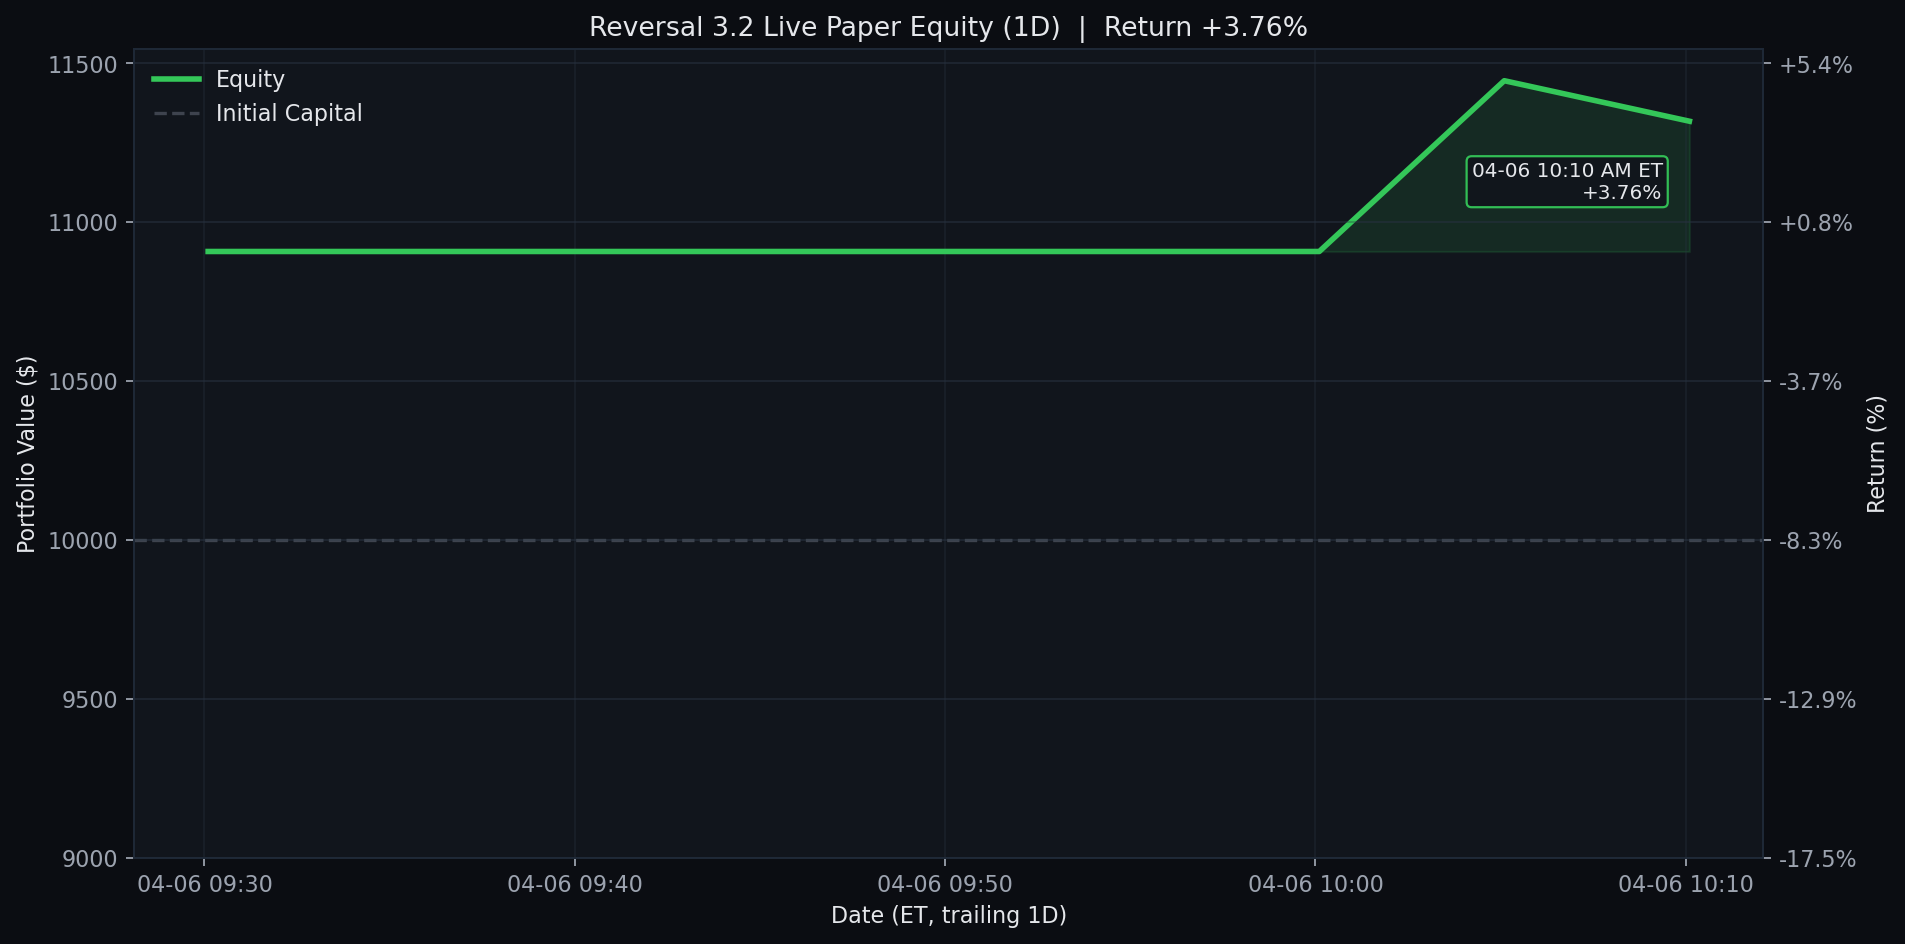
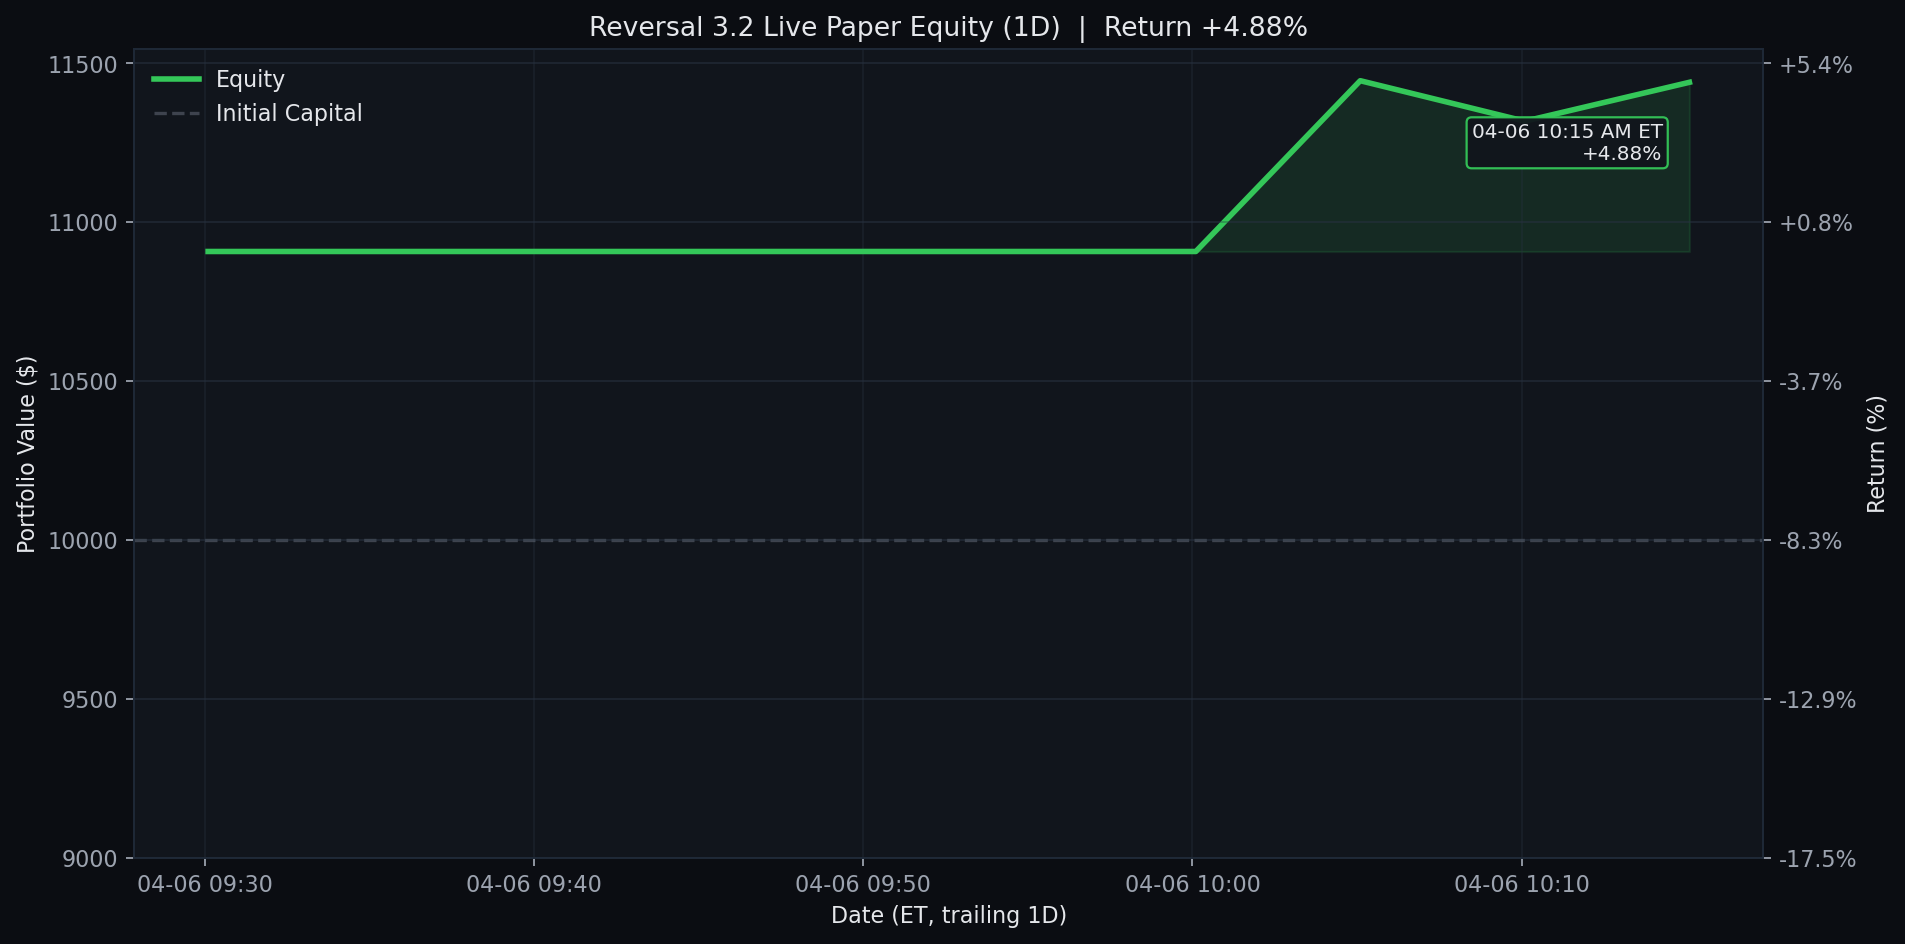
Update Reversal 3.2 live paper test 2026-04-06 10:15 ET

diff --git a/results/reversal_3_2_live/README.md b/results/reversal_3_2_live/README.md
@@ -1,7 +1,7 @@
 # Reversal 3.2 Live Paper Test
 
-Last updated (ET): `2026-04-06 10:10:05 EDT`
-Last processed slot: `manage_1000`
+Last updated (ET): `2026-04-06 10:15:05 EDT`
+Last processed slot: `manual_refresh`
 
 ## Active Configuration
 
@@ -20,16 +20,16 @@ Last processed slot: `manage_1000`
 ## Portfolio Snapshot
 
 - Cash: `$8,102.50`
-- Equity: `$11,317.50`
+- Equity: `$11,440.00`
 - Realized PnL: `$845.00`
-- Unrealized PnL: `$472.50`
+- Unrealized PnL: `$595.00`
 - Open positions: `1`
 
 ## Open Positions
 
 ```text
 ticker    contract_symbol entry_trade_date  business_days_held  entry_option_price  current_option_price  entry_spot  current_spot  unrealized_pnl  unrealized_return_pct  success_rate  matched_signals  current_drop_pct  entry_iv_pct  current_iv_pct  rolling_sigma_20d_pct
-   WDC WDC260501C00295000       2026-04-02                   1               27.42                 32.15      294.77        308.54           472.5                  17.23         97.22               36              0.99         81.84           77.32                  91.06
+   WDC WDC260501C00295000       2026-04-02                   1               27.42                 33.38      294.77         311.5           595.0                   21.7         97.22               36              0.99         81.84            75.6                  91.06
 ```
 
 ## Today's Closed Trades (2026-04-06)
@@ -40,18 +40,18 @@ _None_
 
 ```text
 ticker  success_rate_%  matched_signals  current_drop_%  target_rebound_$  target_price  rolling_sigma_20d_%  call_candidate
-   HON          100.00               20            0.81              1.29        228.90                20.57            True
-  MRVL           95.35               43            0.54              0.40        106.94                90.41            True
-  NVDA           91.67               36            0.71              0.89        177.01                36.70            True
-  AVGO           90.91               33            1.12              2.46        313.49                41.04            True
-  CDNS           90.70               43            0.68              1.33        278.15                25.28            True
-  SNPS           89.13               46            0.60              1.67        395.23                35.67            True
-  FAST           88.89               27            0.95              0.31         46.17                21.85            True
-  CTSH           83.87               31            1.02              0.45         62.35                26.11            True
-  TSLA           83.78               37            0.71              1.79        359.82                42.35            True
-  ASML           81.82               22            1.80             16.63       1310.10                51.28            True
-   PEP           81.82               22            0.50              0.55        156.77                18.34            True
-  MELI           80.95               42            0.63              7.62       1712.25                39.93            True
+  CDNS           90.91               44            0.64              1.24        278.19                25.28            True
+  AVGO           89.74               39            0.79              1.73        313.81                41.04            True
+  TSLA           84.62               39            0.52              1.30        360.03                42.35            True
+  CTSH           83.78               37            0.61              0.27         62.43                26.11            True
+  DDOG           82.61               23            2.80              2.36        119.35                49.88            True
+  ASML           81.82               22            1.71             15.74       1310.49                51.28            True
+  CRWD           81.40               43            0.56              1.57        398.45                42.36            True
+   PEP           80.95               21            0.56              0.62        156.74                18.34            True
+  PANW           80.49               41            0.81              0.92        162.81                41.77            True
+  TTWO           80.00               30            1.51              2.11        198.96                26.67            True
+  FANG          100.00               32            0.02              0.03        193.87                28.70           False
+   HON          100.00               25            0.48              0.78        229.12                20.57           False
 ```
 
 ## Recent Events

diff --git a/README.md b/README.md
@@ -3,10 +3,10 @@
 <!-- reversal-3.2-live:start -->
 ## Reversal 3.2 Live Paper Test
 
-- Last updated (ET): `2026-04-06 10:10:05 EDT`
-- Equity: `$11,317.50` | Realized: `$845.00` | Unrealized: `$472.50` | Open positions: `1`
+- Last updated (ET): `2026-04-06 10:15:05 EDT`
+- Equity: `$11,440.00` | Realized: `$845.00` | Unrealized: `$595.00` | Open positions: `1`
 - Today closed trades: `0`
-- Current slot: `manage_1000`
+- Current slot: `manual_refresh`
 - Universe: `qqq_plus_leverage_etfs`
 - Chart windows: `1D / 1W / 1M` (default open panel: `1W`)
 
@@ -14,7 +14,7 @@
 
 ```text
 ticker    contract_symbol  current_option_price  unrealized_pnl  unrealized_return_pct  business_days_held
-   WDC WDC260501C00295000                 32.15           472.5                  17.23                   1
+   WDC WDC260501C00295000                 33.38           595.0                   21.7                   1
 ```
 
 <details>
